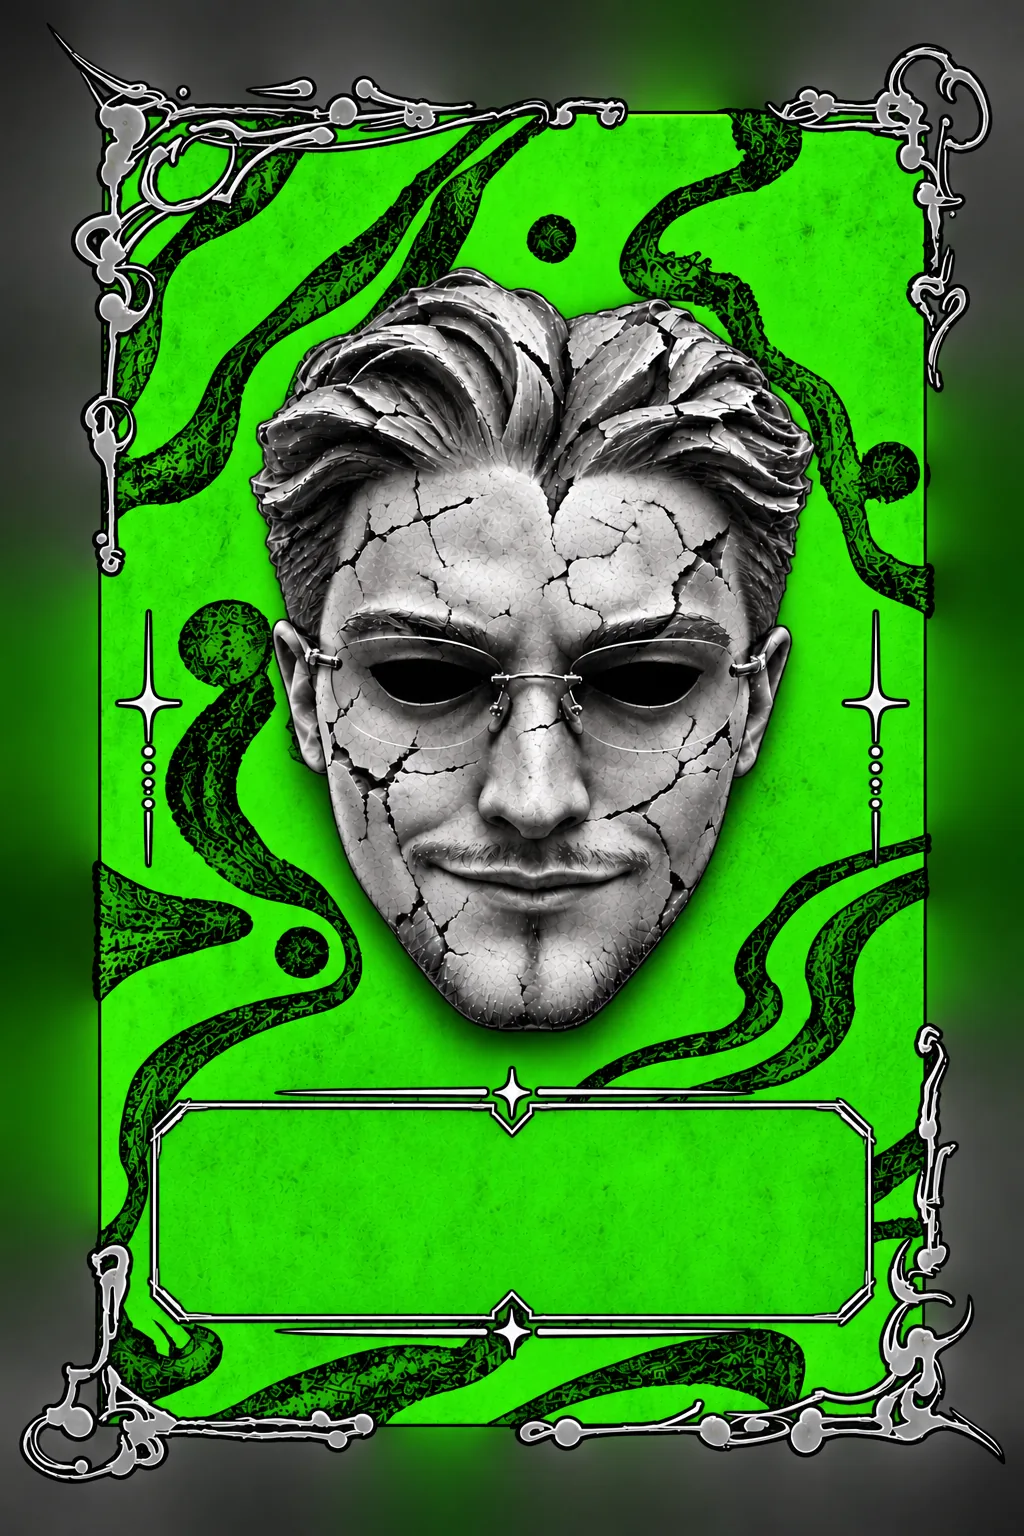
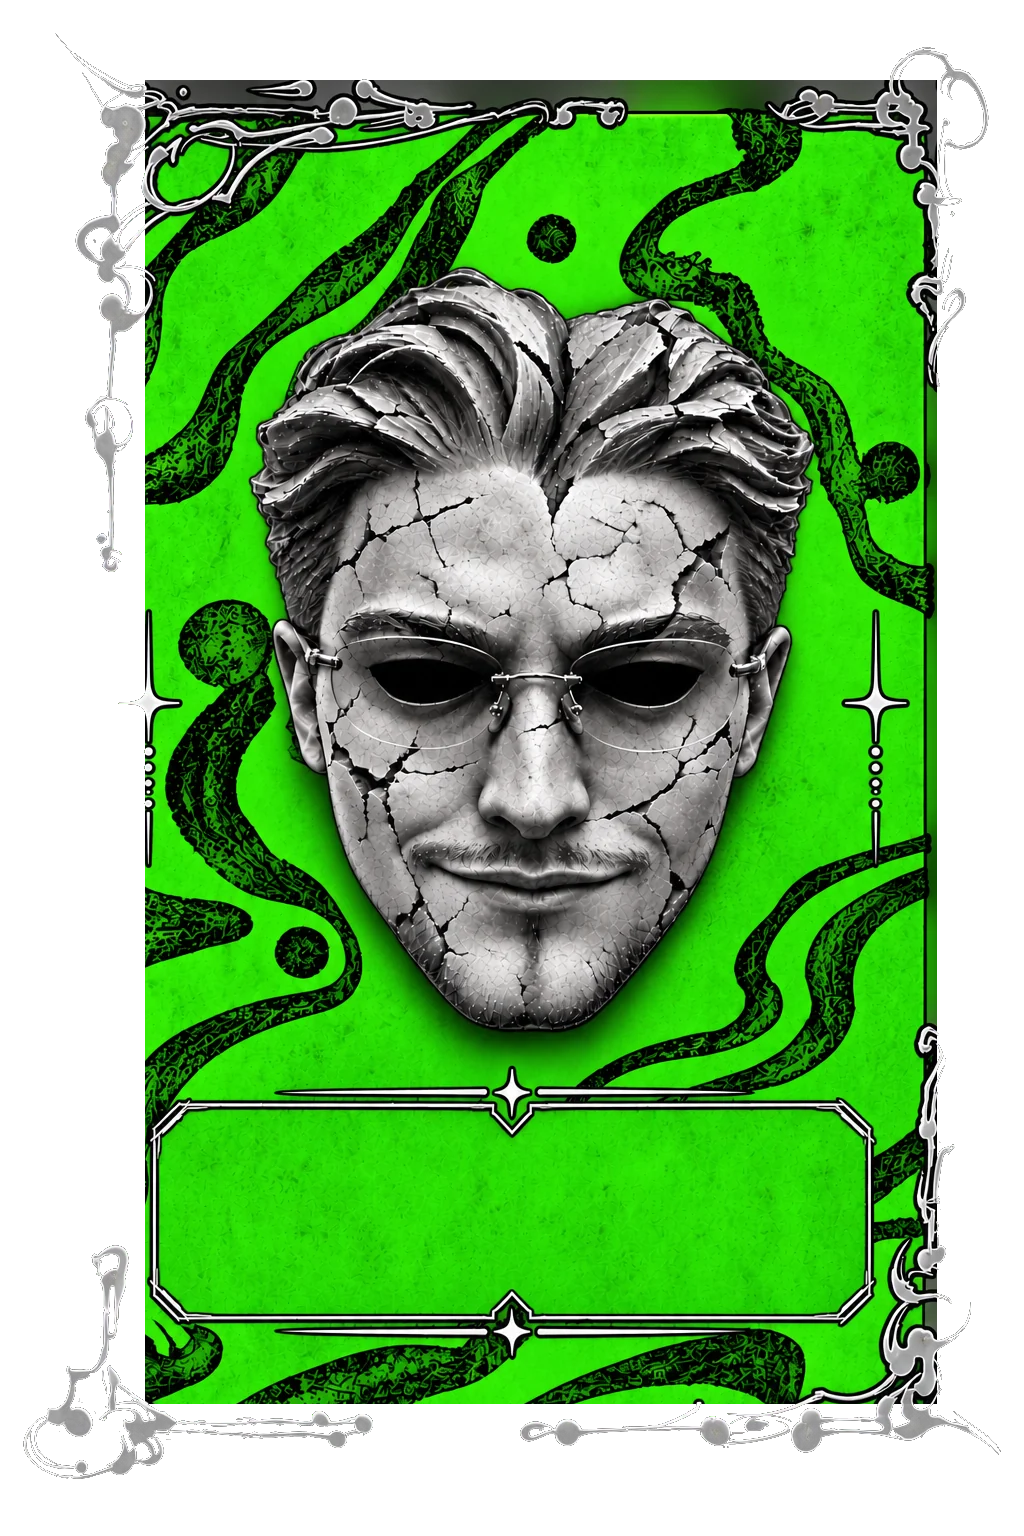
intro: release #rosw-app transform after landing (fixed menu bug); cards cut out of their dark background

diff --git a/v5/intro.css b/v5/intro.css
@@ -43,7 +43,7 @@ html.rm-intro-skip #rm-intro{display:none !important}
 #rm-intro.is-sound .rm-intro__snd b:nth-child(4){animation-delay:-.2s}
 #rm-intro.is-flying .rm-intro__snd{opacity:0;transition:opacity .25s ease;pointer-events:none}
 html.rm-intro-lock #rosw-app{transform:scale(1.06);transform-origin:50% 42%}
-html.rm-intro-enter #rosw-app{animation:rm-page-in 1.9s cubic-bezier(.22,1,.36,1) both}
+html.rm-intro-enter #rosw-app{animation:rm-page-in 1.9s cubic-bezier(.22,1,.36,1) backwards}
 @keyframes rm-breath{0%,100%{transform:translate3d(0,0,0) scale(1)}50%{transform:translate3d(0,-5px,0) scale(1.012)}}
 @keyframes rm-hint{0%,100%{opacity:.5;letter-spacing:.14em}50%{opacity:.95;letter-spacing:.22em}}
 @keyframes rm-roll{0%{transform:translateY(0)}100%{transform:translateY(860%)}}

diff --git a/v5/intro.js b/v5/intro.js
@@ -439,6 +439,8 @@
     if (entered) return;
     entered = true;
     html.classList.add('rm-intro-enter');
+    /* drop the class once the landing animation is over: a lingering animated transform on #rosw-app would turn it into the containing block for the fixed header, menu and consent bar */
+    setTimeout(function () { html.classList.remove('rm-intro-enter'); }, 2100);
     try { document.dispatchEvent(new CustomEvent('rm-intro-enter')); } catch (e) {}
   }
   function finish() {
